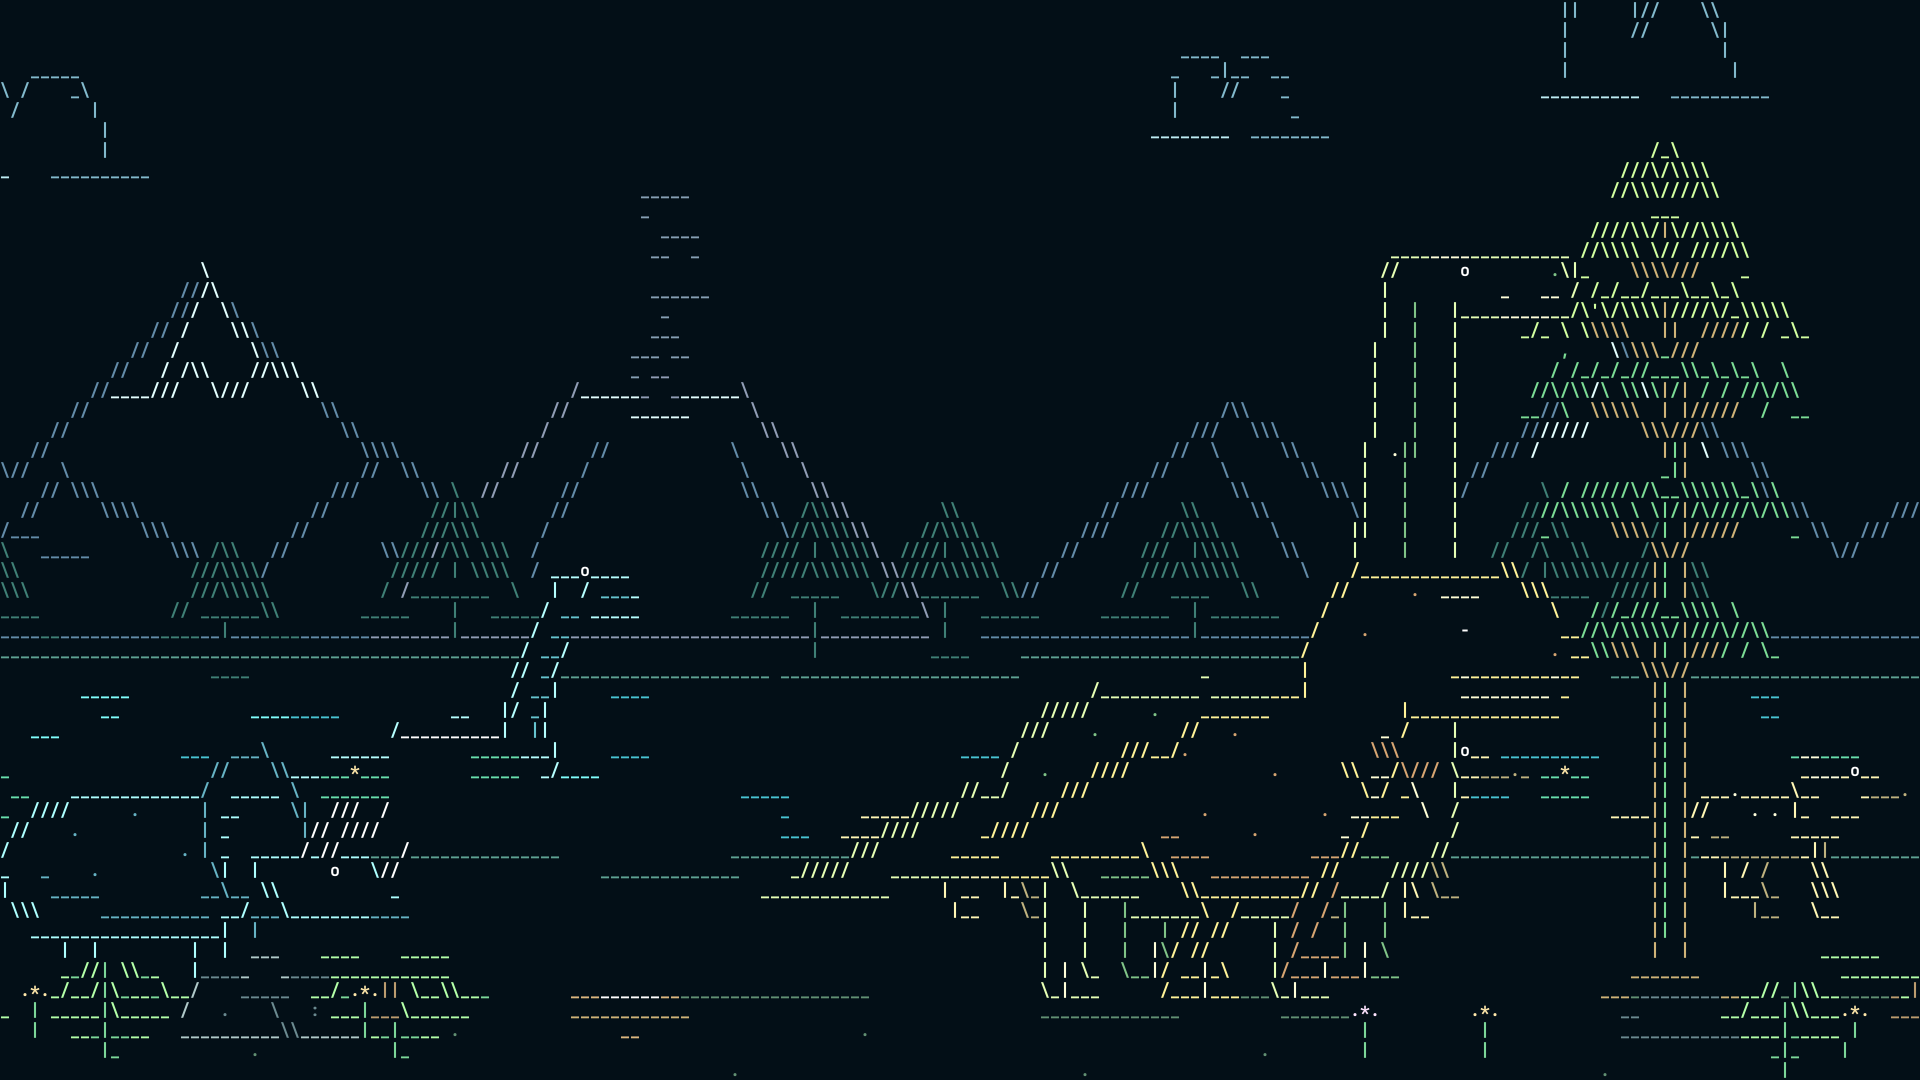
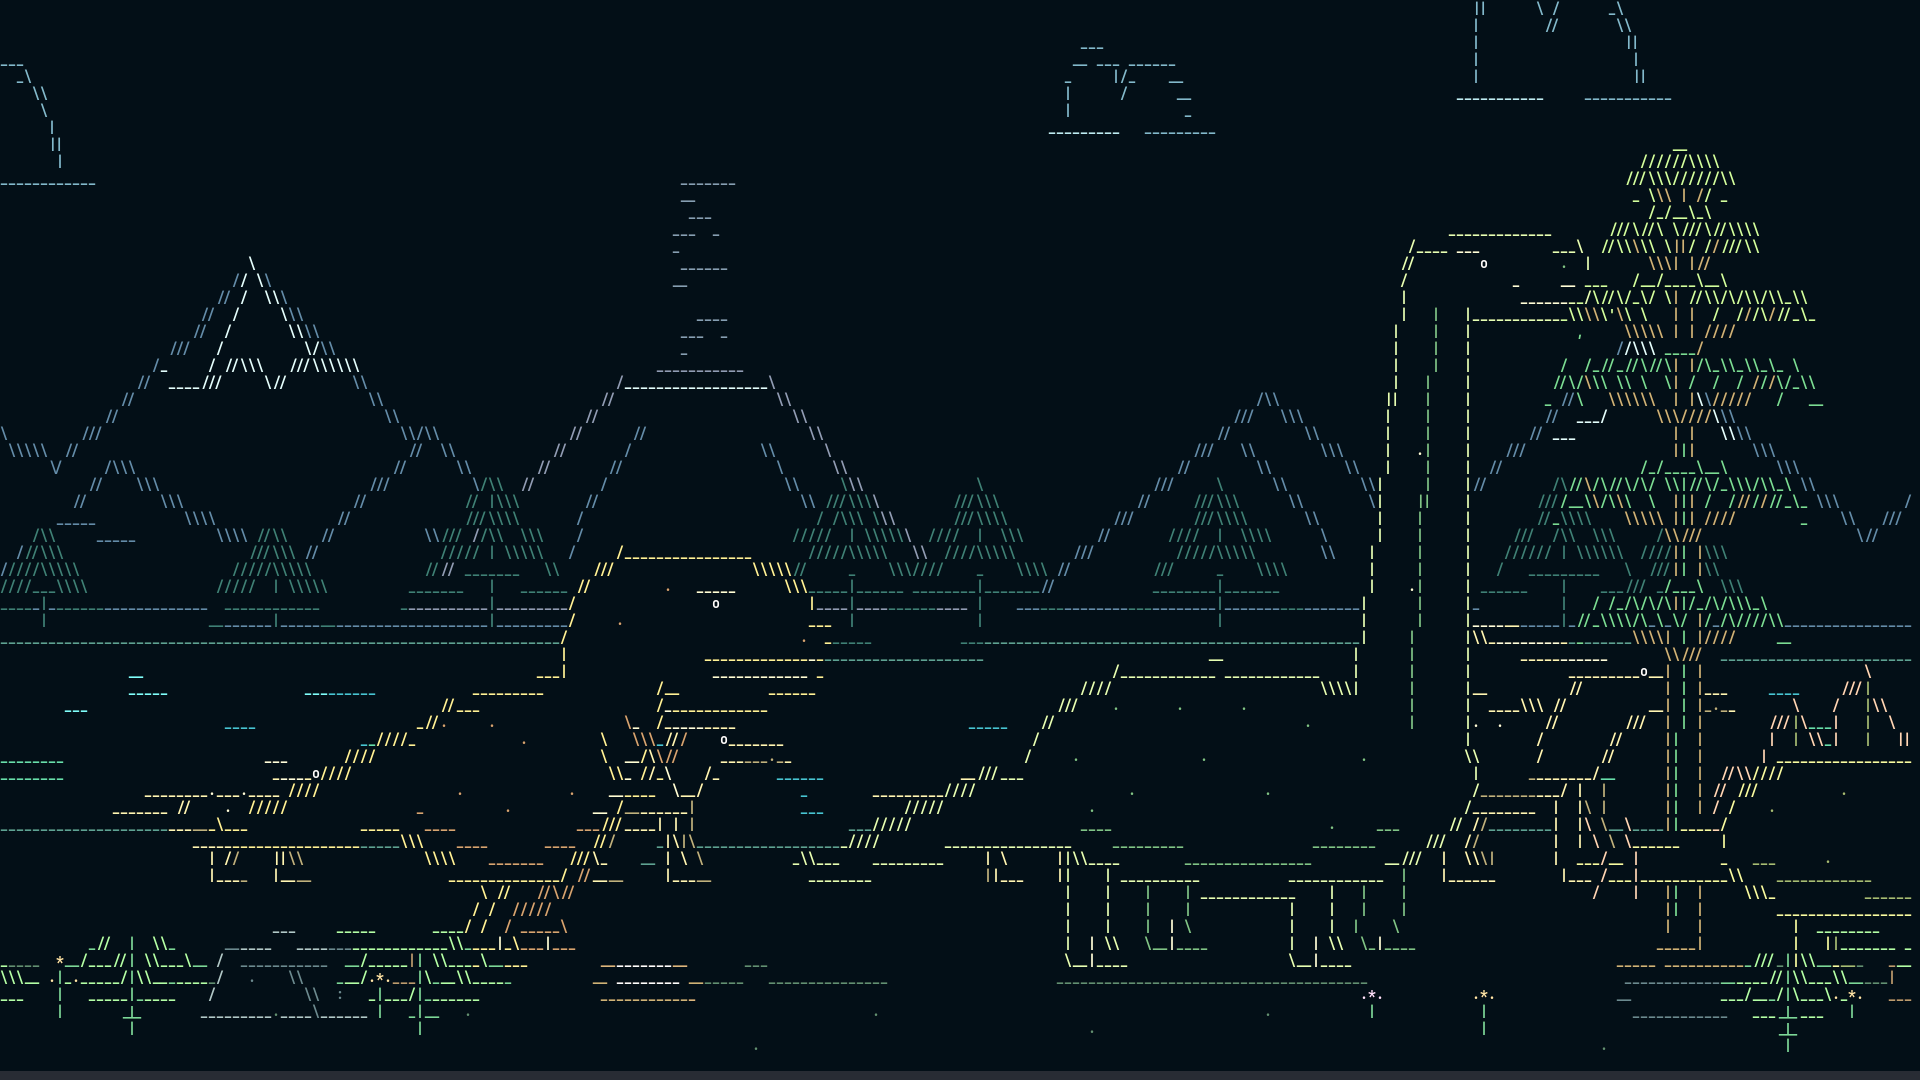
Use app-only 10pt fonts and genuine native website captures

diff --git a/site/index.html b/site/index.html
@@ -24,7 +24,7 @@
   <meta name="twitter:image:alt" content="Omarchasaurus, an ASCII dinosaur valley for Omarchy Quattro">
   <link rel="icon" type="image/svg+xml" href="./assets/favicon.svg">
   <link rel="stylesheet" href="./styles.css?v=inline-players">
-  <script src="./main.js?v=full-hd-captures" defer></script>
+  <script src="./main.js?v=native-terminal-10pt" defer></script>
 </head>
 <body>
   <a class="skip-link" href="#main">Skip to content</a>
@@ -47,8 +47,8 @@
       </div>
       <figure class="valley-frame" id="valley">
         <div class="frame-toolbar"><span class="eyebrow"><span class="frame-cross" aria-hidden="true">+</span> Field observation / 001</span><div id="palette-controls" class="palette-controls" role="group" aria-label="Artwork palette" hidden><button type="button" data-palette="morning" aria-pressed="true" aria-controls="valley-image">Morning</button><button type="button" data-palette="dusk" aria-pressed="false" aria-controls="valley-image">Dusk</button></div><span class="frame-format">ASCII / TRUECOLOR</span></div>
-        <div class="valley-image-wrap"><img id="valley-image" src="./assets/valley-morning.webp?v=1920x1080" width="1920" height="1080" fetchpriority="high" alt="Morning palette production capture of the ASCII dinosaur valley, with character-drawn dinosaurs, mountains, trees, clouds and a lake."></div>
-        <figcaption><span><span class="caption-marker" aria-hidden="true">↳</span> Actual 1920 × 1080 production-canvas capture. Not a browser game.</span><span id="palette-caption" aria-live="polite" aria-atomic="true">Morning palette / static artwork</span></figcaption>
+        <div class="valley-image-wrap"><img id="valley-image" src="./assets/valley-morning.webp?v=native-terminal-10pt" width="1920" height="1080" fetchpriority="high" alt="Morning native terminal screenshot of the ASCII valley, with Brachiosaurus, Tyrannosaurus rex, Stegosaurus and a Parasaurolophus family among mountains, trees and a lake."></div>
+        <figcaption><span><span class="caption-marker" aria-hidden="true">↳</span> Native terminal screenshot · 1920 × 1080 · 10 pt. Not a browser game.</span><span id="palette-caption" aria-live="polite" aria-atomic="true">Morning palette / paused default scene</span></figcaption>
       </figure>
       <div class="hero-footnote"><span>Real terminal. Original strokes.</span><span>No image protocol. No separate GPU scene.</span><span class="hero-footnote-end">Made to be stumbled upon.</span></div>
     </section>

diff --git a/site/main.js b/site/main.js
@@ -7,13 +7,13 @@ const paletteCaption = document.getElementById("palette-caption");
 const palettes = {
   morning: {
     name: "Morning",
-    source: "./assets/valley-morning.webp?v=1920x1080",
-    alt: "Morning palette production capture of the ASCII dinosaur valley, with character-drawn dinosaurs, mountains, trees, clouds and a lake."
+    source: "./assets/valley-morning.webp?v=native-terminal-10pt",
+    alt: "Morning native terminal screenshot of the ASCII valley, with Brachiosaurus, Tyrannosaurus rex, Stegosaurus and a Parasaurolophus family among mountains, trees and a lake."
   },
   dusk: {
     name: "Dusk",
-    source: "./assets/valley-dusk.webp?v=1920x1080",
-    alt: "Dusk palette production capture of the ASCII dinosaur valley, with character-drawn dinosaurs, mountains, trees, clouds and a lake."
+    source: "./assets/valley-dusk.webp?v=native-terminal-10pt",
+    alt: "Dusk native terminal screenshot of the ASCII valley, with Brachiosaurus, Tyrannosaurus rex, Stegosaurus and a Parasaurolophus family among mountains, trees and a lake."
   }
 };
 
@@ -32,7 +32,7 @@ if (paletteControls && valleyImage && paletteCaption) {
 
     if (key === activePalette) {
       valleyImage.parentElement.removeAttribute("aria-busy");
-      paletteCaption.textContent = `${palette.name} palette / static artwork`;
+      paletteCaption.textContent = `${palette.name} palette / paused default scene`;
       return;
     }
 
@@ -48,7 +48,7 @@ if (paletteControls && valleyImage && paletteCaption) {
         control.setAttribute("aria-pressed", String(control.dataset.palette === key));
       }
       valleyImage.parentElement.removeAttribute("aria-busy");
-      paletteCaption.textContent = `${palette.name} palette / static artwork`;
+      paletteCaption.textContent = `${palette.name} palette / paused default scene`;
     };
     nextImage.onerror = () => {
       if (currentRequest !== request) return;

diff --git a/README.md b/README.md
@@ -73,7 +73,7 @@
 
 - **Omarchy Quattro**, with its Quickshell-based shell and Hyprland.
 - **Python 3.11+**; runtime Python uses only the standard library.
-- **Ghostty or Kitty.** The launcher prefers Ghostty and opens separately owned terminal instances.
+- **Ghostty or Kitty.** The launcher prefers Ghostty and opens separately owned terminal instances at **10 pt**, with bold character art. This size override applies only to Omarchasaurus windows; ordinary terminal preferences and the selected font family are unchanged.
 - A **UTF-8, truecolor terminal** and a monospace font. SGR mouse reporting enables interaction.
 
 There is no runtime package installer, source download, build step, account, API key or elevated helper. No sudo or pkexec is required. Dependencies must already be present; the plugin does not install or update them.
@@ -267,7 +267,7 @@ The public repository excludes historical desktop captures, development-agent in
 
 **[Visit the project website](https://daileng.github.io/Omarchasaurus/)** for the age-friendly nine-animal field guide, name pronunciations, museum resources, Morning/Dusk artwork viewer and installation overview.
 
-The website is plain HTML, CSS and JavaScript in `site/`, with no build step, external fonts, analytics or browser storage. Its Morning/Dusk images are fresh **1920×1080 lossless WebP captures** of the production 192×54 character canvas, displayed responsively with the complete 16:9 frame visible—not upscaled copies of older images. The palette viewer is not a browser port of the simulation.
+The website is plain HTML, CSS and JavaScript in `site/`, with no build step, external fonts, analytics or browser storage. Its Morning/Dusk images are **1920×1080 lossless WebP screenshots of a fresh native Ghostty session**, captured at 10 pt with JetBrains Mono and factory scene settings after the animation has advanced normally. Both palettes show the same paused scene and are displayed responsively with the complete 16:9 frame visible. They are not SVG reconstructions or enlarged older images. Visible animals vary with the scene's population limit and encounter timing; enabled species need not all appear simultaneously. The palette viewer is not a browser port of the simulation.
 
 Name clips are self-hosted and play only when requested. Each animal card has a visible embedded player: play, pause and replay stay on the guide, even without JavaScript. With JavaScript enabled, starting another name pauses the previous clip. Written syllable guides remain alongside the players. These are readings of animal names, **not dinosaur calls**; the terminal plugin itself remains silent. Browser playback fetches the selected clip from this GitHub Pages site, not a third-party speech API. Audio provenance and licenses are listed in [pronunciation credits](site/assets/pronunciation/ATTRIBUTION.md). Linked museums are independent websites with their own accessibility and privacy practices.
 
